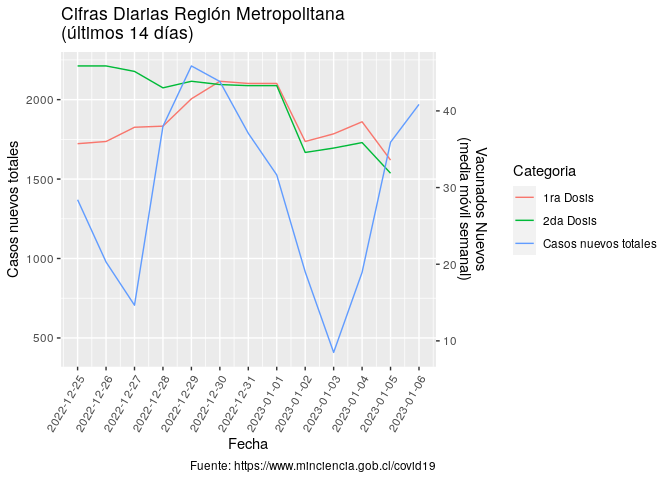
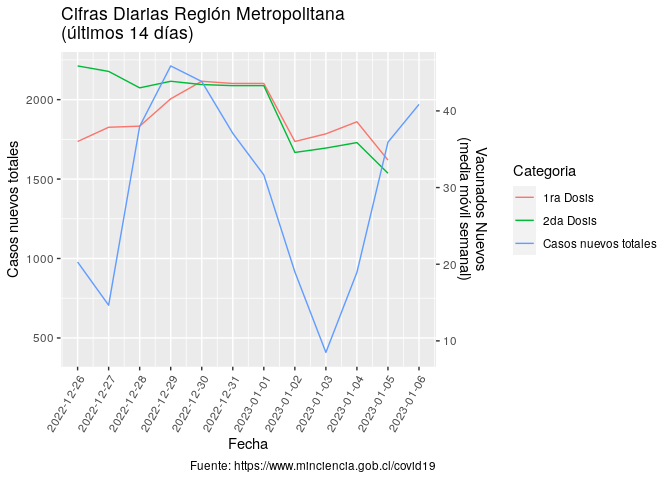
Re-build Rmarkdown files

diff --git a/README.md b/README.md
@@ -3,7 +3,7 @@
 
 Ejemplo de uso de total\_casos de COVID recopilados por el Ministerio de
 Ciencia de Chile <https://www.minciencia.gob.cl/covid19>. Última
-actualización: 2023-01-07
+actualización: 2023-01-08
 
 ## Visualización desde el comienzo de la pandemia
 
